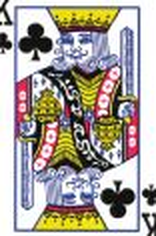
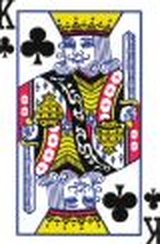
Stop cropping Blackjack court cards
The court images used object-fit: cover, which cropped the card edges and
clipped the corner rank letters (e.g. the K). Switch to object-fit:
contain so the whole card image always shows, and re-crop the 12 court
images with a gentler inset that removes only the outer outline while
keeping the corner indices. Bump CACHE_VERSION to v16.6.

Claude-Session: https://claude.ai/code/session_018dSC3E2dkUgQ9j1s6YYj7x

diff --git a/games/blackjack.html b/games/blackjack.html
@@ -137,10 +137,11 @@
     }
     .card .big-suit { position: absolute; left: 50%; top: 50%; transform: translate(-50%, -50%); font-size: calc(var(--w) * 0.72); }
 
-    /* Court cards: full suit-correct Jack/Queen/King card artwork fills the card. */
+    /* Court cards: full suit-correct J/Q/K artwork, shown whole (never cropped). */
+    .card.court { background: #fff; }
     .card.court .court-img {
       position: absolute; inset: 0; width: 100%; height: 100%;
-      object-fit: cover; object-position: center; display: block;
+      object-fit: contain; object-position: center; display: block;
     }
 
     /* Card back */

diff --git a/service-worker.js b/service-worker.js
@@ -10,7 +10,7 @@
  * When the user taps it, the page posts SKIP_WAITING (below) so the new worker
  * activates immediately, then the page reloads onto the new version.
  */
-const CACHE_VERSION = 'alisha-arcade-v16.5';
+const CACHE_VERSION = 'alisha-arcade-v16.6';
 
 // Everything the app needs to run fully offline.
 const ASSETS = [
